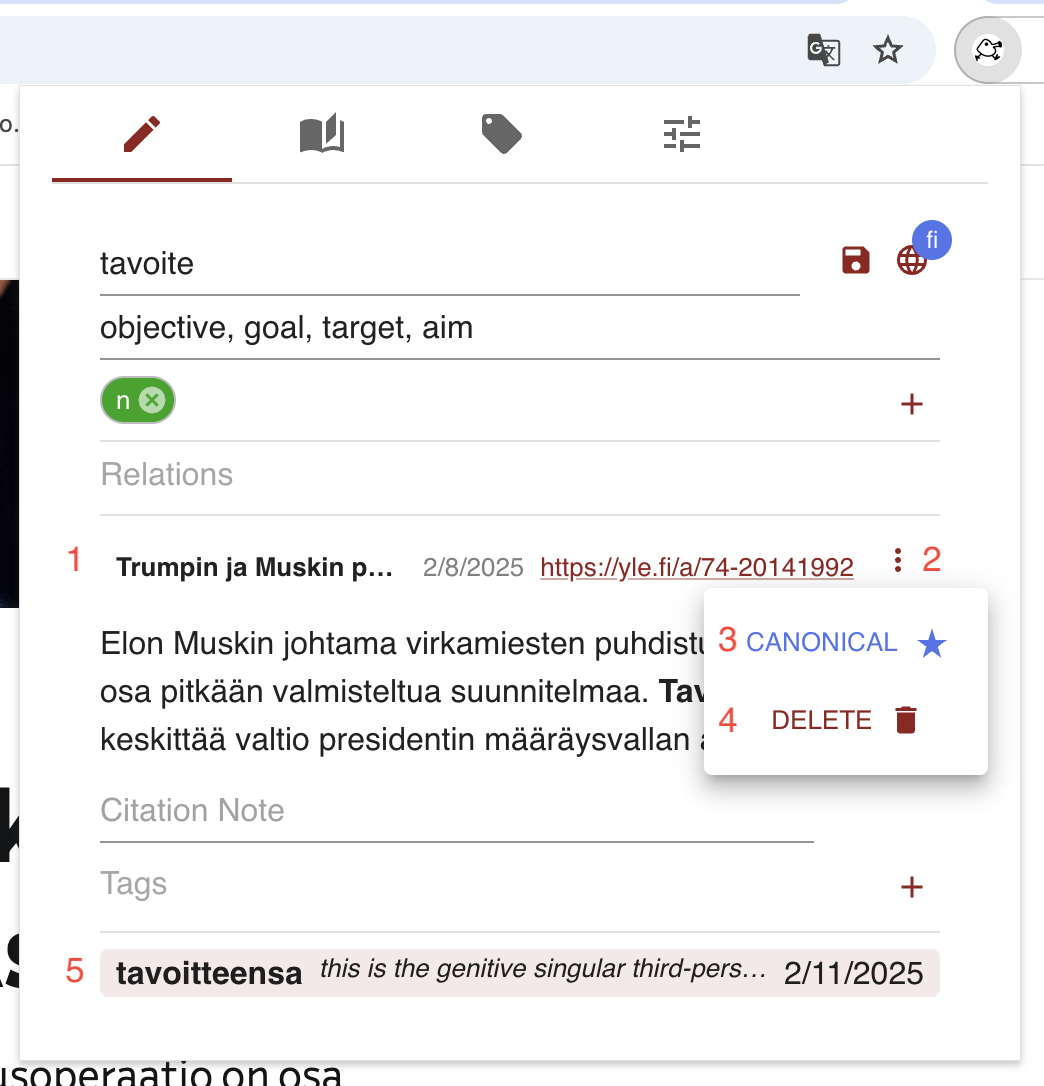
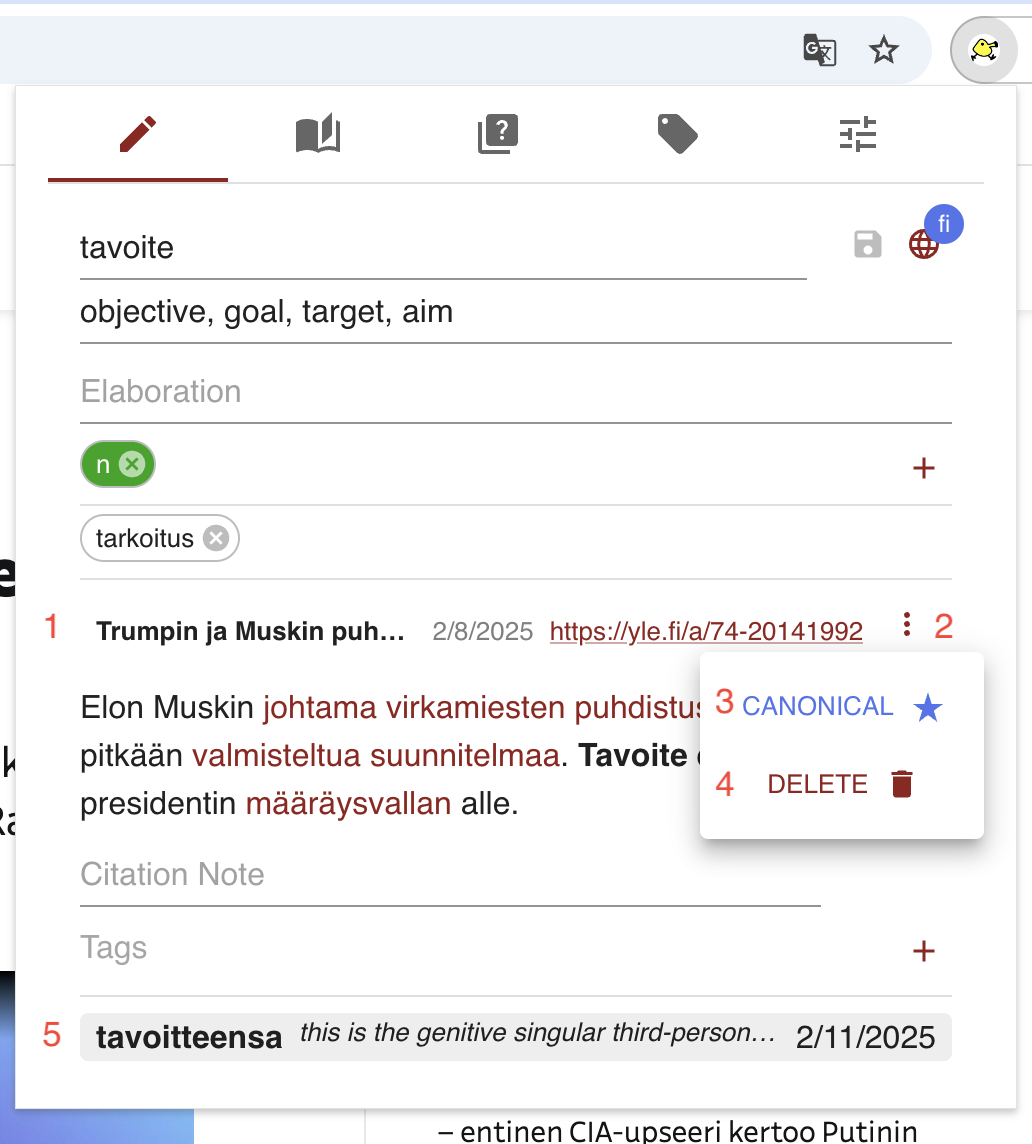
improving more documentation

diff --git a/docs/index.html b/docs/index.html
@@ -121,7 +121,8 @@
           font-size: 14px;
         }
         /* so figures aren't separated too far from their sections */
-        h2, h3 {
+        h2,
+        h3 {
           clear: both;
         }
       }
@@ -275,8 +276,8 @@
           >
           flashcard <a href="#quiz">quizzes</a>, à la
           <a href="https://apps.ankiweb.net/">Anki</a>. A quiz from form
-          (&ldquo;lemma&rdquo;) to meaning (&ldquo;gloss&rdquo;) quiz and a quiz
-          from meaning to form. You can take these quizzes daily or on whatever
+          (&ldquo;lemma&rdquo;) to meaning (&ldquo;gloss&rdquo;) and a quiz from
+          meaning to form. You can take these quizzes daily or on whatever
           schedule suits you. They will drum into your memory the facts you
           annotate with notes.
         </p>
@@ -310,9 +311,8 @@
         </p>
         <p>
           Once a day, more or less, you <a href="#quiz">quiz</a> yourself on
-          your notes. About a quarter of the quiz are new notes selected
-          randomly from among those you've recently created. The rest are
-          review.
+          your notes. About a fifth of the quiz are new notes selected randomly
+          from among those you've recently created. The rest are review.
         </p>
         <h3>Philosophy</h3>
         <p>
@@ -404,17 +404,19 @@
           you want to set breakpoints and inspect human-readable code). Then go
           to Window > Extensions, click the &ldquo;Load unpacked&rdquo; button,
           and select the dist directory, which will have the output of the build
-          scripts in it. This is how I work on Amanuensis.
+          scripts in it.<span class="fn"
+            >This is, in fact, how I work on Amanuensis.</span
+          >
         </p>
         <h2>Documentation</h2>
         <h3>Design Constraints</h3>
         <p>
           Amanuensis, like many extensions, lives in a little box in the top
-          left corner of the screen. It needs to stay out of the way of the text
-          you're reading, so everything needs to compact, minimal, abbreviated.
-          We do what we can with tooltips and icons with familiar meanings, but
-          if we had more real estate on the screen we would have made other
-          choices.
+          right corner of the screen. It needs to stay out of the way of the
+          text you're reading, so everything needs to be compact, minimal,
+          abbreviated. We do what we can with tooltips and icons with familiar
+          meanings, but if we had more real estate on the screen we would have
+          made other choices.
         </p>
         <h3 id="note">Note</h3>
         <figure id="note-figure">
@@ -442,13 +444,15 @@
             >lemma</a
           >
           is the canonical form of its various citations. If you are using
-          Amanuensis to study English, the you would probably consider the lemma
-          of <i>cats</i>, <i>cat's</i>, and <i>cat</i> to be <i>cat</i>.
+          Amanuensis to study English, you would probably consider the lemma of
+          <i>cats</i>, <i>cat's</i>, and <i>cat</i> to be <i>cat</i>.
         </p>
         <h4>save icon</h4>
         <p>
           Click this to save the note. When you begin a note by highlighting
-          some text and opening Amanuensis, it is not yet saved.
+          some text and opening Amanuensis, it is not yet saved. If any part of
+          the note is unsaved, the save icon will be enabled. If it is disabled
+          &mdash; gray &mdash; there is nothing to save.
         </p>
         <h4>language</h4>
         <p>
@@ -482,6 +486,11 @@
           interesting quirks, analogies to other languages &mdash; these belong
           in the elaboration.
         </p>
+        <p>
+          The flashcards in the <a href="#quiz">quizzes</a> contain the lemma
+          and language on one side and the lemma note and tags on the other. Any
+          elaboration is excluded.
+        </p>
         <figure id="tag-figure">
           <img
             src="images/tag.png"
@@ -494,8 +503,8 @@
         <p>
           <a href="#tags">Tags</a> represent frequently occurring, important
           bits of information. If you hover over a tag, the information it
-          represents will appear as a tooltip. Click in this element to add a
-          tag.
+          represents will appear as a tooltip. Click in the tag element, the
+          area holding all the tags, to add a tag.
         </p>
         <h4>links</h4>
         <p>
@@ -511,10 +520,11 @@
           <i>b</i> will also be linked to <i>a</i>.
         </p>
         <p>
-          Links are created within the <a href="#dictionary">dictionary</a>. You
-          will find each entry has a link icon. This looks like a link in a
-          chain. If you click it, you will create a link
-          <i>to the current note</i>.
+          The mechanism for creating these links is within the
+          <a href="#dictionary">dictionary</a>. You will find each dictionary
+          entry has a link icon. This looks like a link in a chain. If you click
+          it, you will create a link <i>to the current note</i>, the note
+          currently displayed in the note tab.
         </p>
         <figure id="citation-figure">
           <img
@@ -539,9 +549,9 @@
         </p>
         <p>
           If you have more than one citation, as in
-          <a href="#citation-figure">the figure</a>, you may pick a "canonical"
-          one to display by default when browsing notes. You may also delete
-          citations. You cannot delete the last citation.
+          <a href="#citation-figure">the figure</a>, you may pick a
+          &ldquo;canonical&rdquo; one to display by default when browsing notes.
+          You may also delete citations. You cannot delete the last citation.
         </p>
         <p>
           You only have these options for the currently displayed citation.
@@ -572,13 +582,26 @@
         <h5>citation note</h5>
         <p>
           Each citation has its own note in which you can record anything
-          interesting about the particular citation. This is (11) in
+          interesting about the particular citation. This is (12) in
           <a href="#note-figure">the figure</a>.
         </p>
         <h5>citation tags</h5>
         <p>
           Every citation also may have its own tags. This is (12) in
           <a href="#note-figure">the figure</a>.
+        </p>
+        <figure id="citation-note-and-tags">
+          <img
+            src="images/citation_note_and_tags.png"
+            alt="keeping track of peculiarities of a specific citation"
+          />
+          <figcaption>
+            Using citation note and tags to keep track of unanswered questions.
+          </figcaption>
+        </figure>
+        <p>
+          I often use the citation note and tags to keep track of puzzles to
+          solve later. See <a href="#citation-note-and-tags">the figure</a>.
         </p>
         <h3 id="dictionary">Dictionary</h3>
         <figure id="dictionary-figure">
